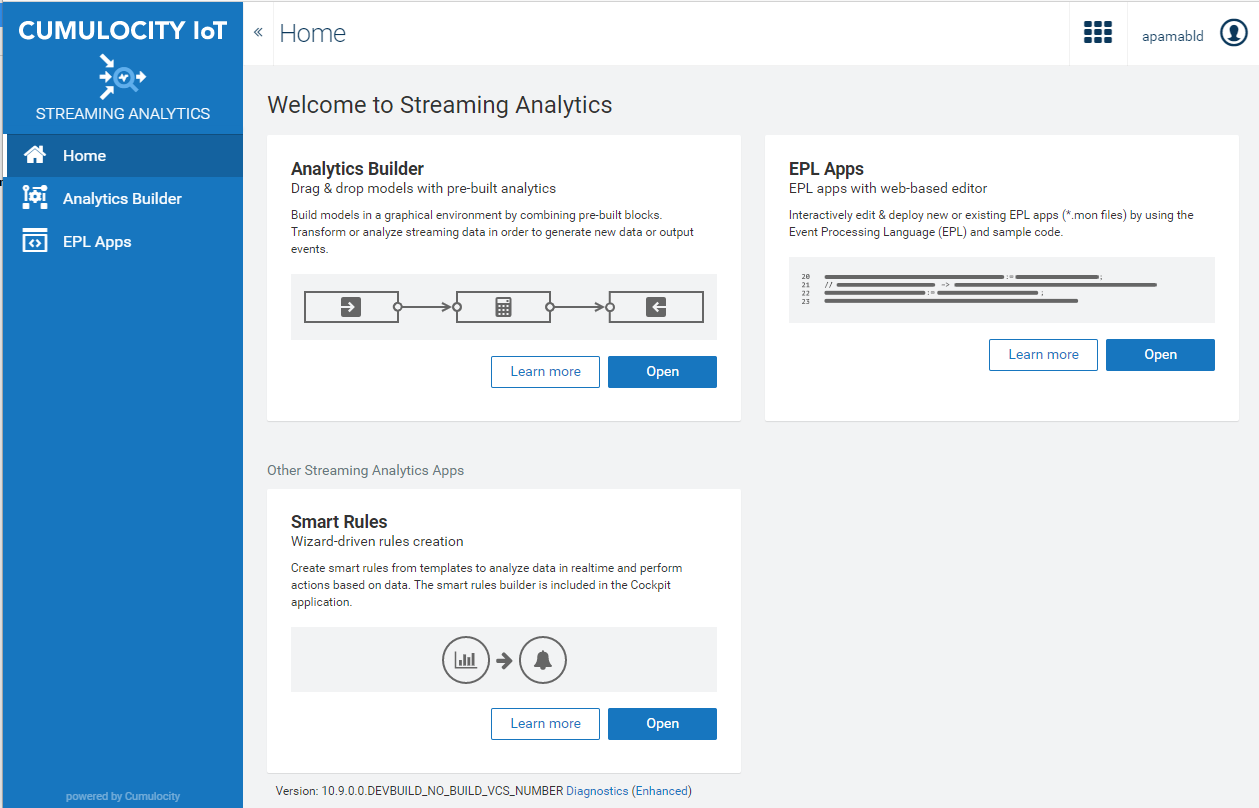
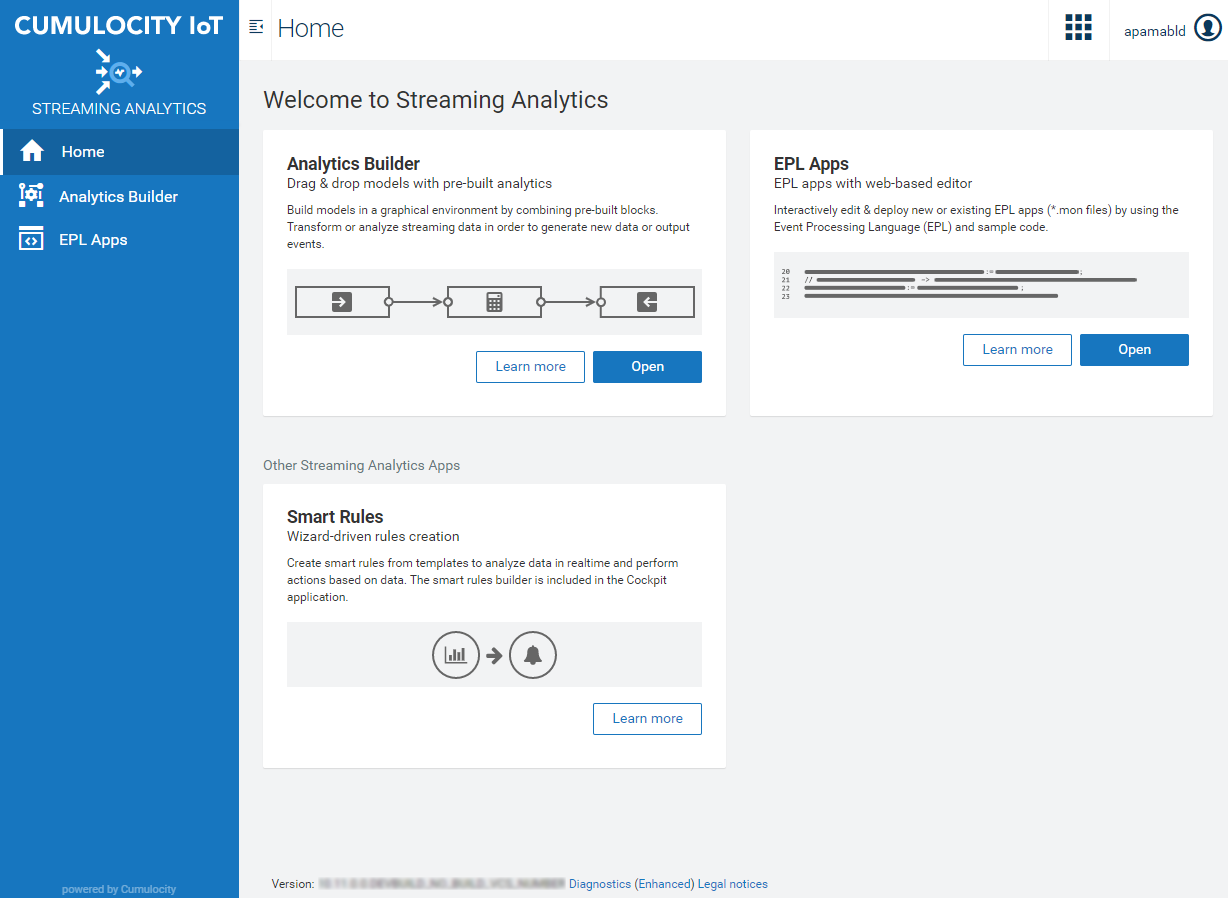
Updated the screenshot and changed the text for smart rules.

diff --git a/content/apama/overview-analytics-bundle/home.md b/content/apama/overview-analytics-bundle/home.md
@@ -14,12 +14,13 @@ You can access these pages using the corresponding **Open** button on the home s
 
 If you need more space for a page, you can hide the navigator. Click the small arrow at the very left of the top bar to toggle the display of the navigator.
 
-The home screen also lets you navigate to the Cockpit application in which you can maintain your smart rules. 
+The home screen also provides information on smart rules. You create and maintain them with the Cockpit application.
 See [Smart rules](/users-guide/cockpit/#smart-rules) in the *User guide* for detailed information.
 
 The home screen and navigator only show entries for the items that you are allowed to use, 
 depending on the version of the Apama-ctrl microservice to which your tenant is subscribed. 
-See also [Microservice runtime and applications](#microservice-and-applications).
+See also [Microservice runtime and applications](#microservice-and-applications) and 
+[Customizing the home screen of the Streaming Analytics application](/apama/advanced/#customize-home-screen).
 
 
 
